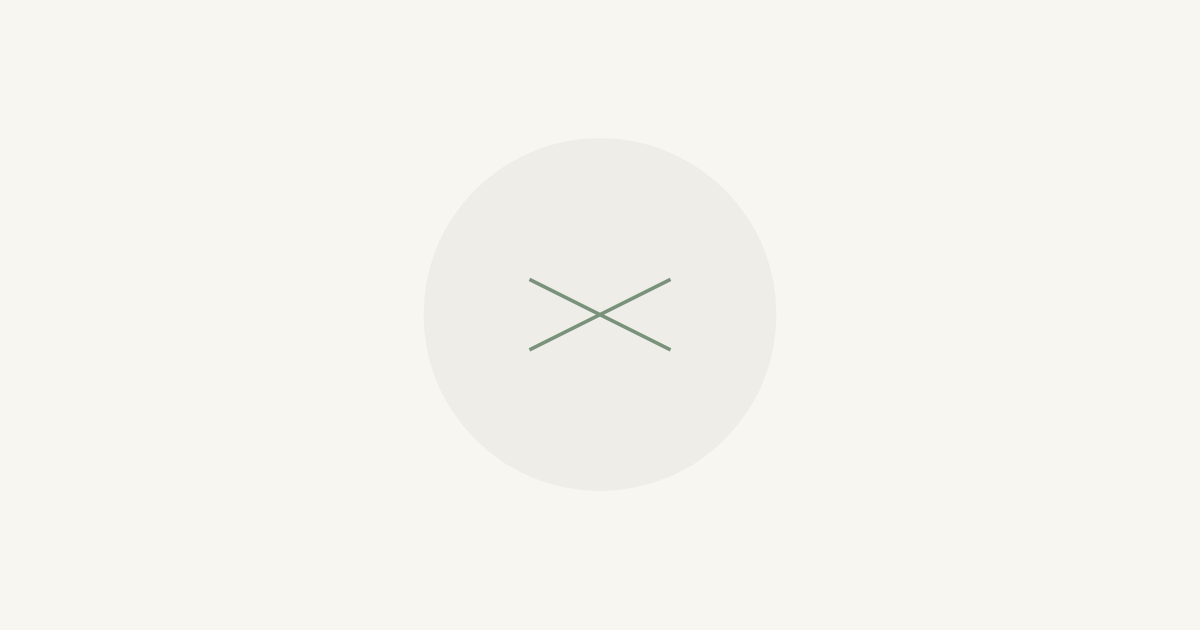
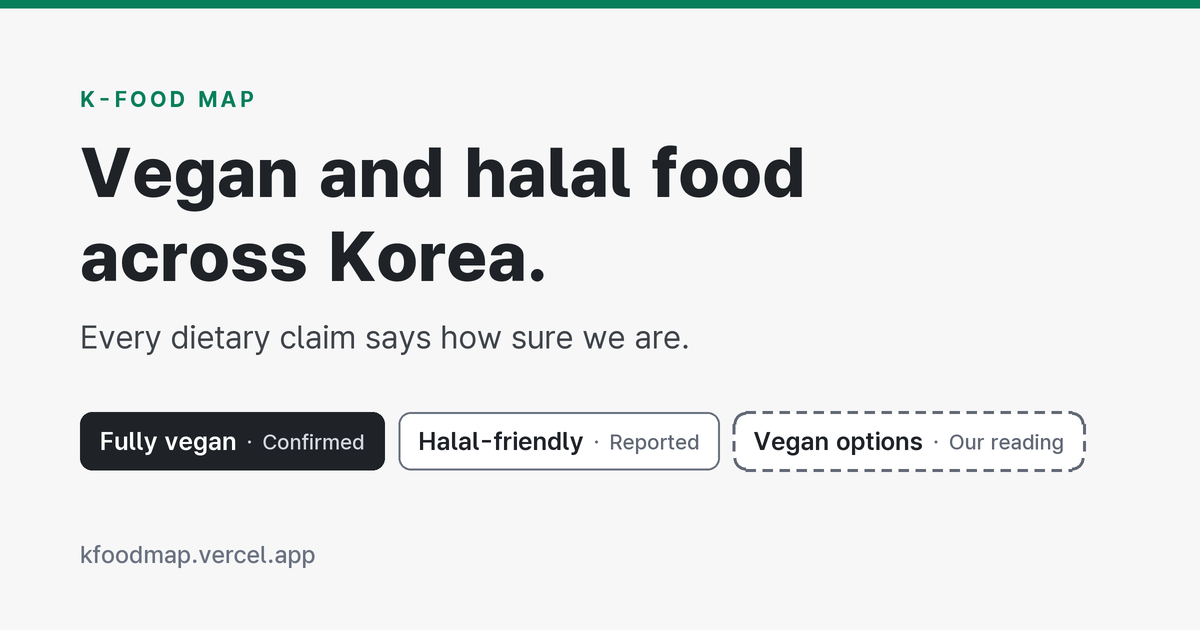
Link previews: a card that says what the map is; full branch names
- The shared og:image was a circle with crossed chopsticks and no
  words, so a link sent in a chat said nothing. It is now a card with
  the name, 'Vegan and halal food across Korea.', and the three claim
  marks, in Pretendard GOV. scripts/og-card.py redraws it.
- Prerendered place pages cut names at the first bracket ('Nimat (니맛),
  Culinary Square T2' became 'Nimat'); they use displayName now, like
  the app.

diff --git a/scripts/og-card.py b/scripts/og-card.py
@@ -1,0 +1,66 @@
+# The shared link-preview card (public/og/fallback.png, 1200x630): used for the
+# home page and for any place without its own illustration card. Drawn with
+# Pillow in Pretendard GOV (from the pretendard-gov npm package) so it
+# matches the app and shows the claim mark (docs/UI-DIRECTION.md).
+# Run from the project root:  python scripts/og-card.py public/og/fallback.png
+
+import sys
+from PIL import Image, ImageDraw, ImageFont
+F='node_modules/pretendard-gov/dist/public/static/alternative/PretendardGOV-'
+def font(w,s): return ImageFont.truetype(F+w+'.ttf', s)
+W,H=1200,630
+S=2  # supersample
+img=Image.new('RGB',(W*S,H*S),'#F7F7F8'); d=ImageDraw.Draw(img)
+INK='#1F2328'; BODY='#3F444A'; MUTED='#6B7280'; MS='#616875'; GREEN='#087F5B'
+x=80*S
+# eyebrow with tracking
+ey=font('Bold',22*S); cx=x
+for ch in 'K-FOOD MAP':
+    d.text((cx,86*S),ch,font=ey,fill=GREEN); cx+=d.textlength(ch,font=ey)+3.2*S
+t=font('ExtraBold',70*S)
+d.text((x,130*S),'Vegan and halal food',font=t,fill=INK)
+d.text((x,214*S),'across Korea.',font=t,fill=INK)
+d.text((x,318*S),'Every dietary claim says how sure we are.',font=font('Regular',32*S),fill=BODY)
+# claim chips
+lab=font('SemiBold',25*S); lvl=font('Medium',21*S)
+chips=[('Fully vegan','Confirmed','solid'),('Halal-friendly','Reported','outline'),('Vegan options','Our reading','dashed')]
+cy=412*S; h=58*S; pad=20*S; gap=14*S
+def dashed_rrect(box,r,col,w,dash=10*S,space=7*S):
+    x0,y0,x1,y1=box
+    # straight edges
+    def seg(a,b,horiz,fixed):
+        p=a
+        while p<b:
+            q=min(p+dash,b)
+            if horiz: d.line([(p,fixed),(q,fixed)],fill=col,width=w)
+            else: d.line([(fixed,p),(fixed,q)],fill=col,width=w)
+            p=q+space
+    seg(x0+r,x1-r,True,y0); seg(x0+r,x1-r,True,y1); seg(y0+r,y1-r,False,x0); seg(y0+r,y1-r,False,x1)
+    for (cx0,cy0,a0) in [(x0,y0,180),(x1-2*r,y0,270),(x1-2*r,y1-2*r,0),(x0,y1-2*r,90)]:
+        d.arc([cx0,cy0,cx0+2*r,cy0+2*r],a0,a0+90,fill=col,width=w)
+xx=x
+for name,level,kind in chips:
+    wn=d.textlength(name,font=lab); wd=d.textlength('·',font=lvl); wl=d.textlength(level,font=lvl)
+    wtot=pad+wn+10*S+wd+10*S+wl+pad
+    box=[xx,cy,xx+wtot,cy+h]
+    if kind=='solid':
+        d.rounded_rectangle(box,radius=12*S,fill=INK)
+        c1,c2='#FFFFFF','#D5D9DF'
+    elif kind=='outline':
+        d.rounded_rectangle(box,radius=12*S,fill='#FFFFFF',outline=MUTED,width=2*S)
+        c1,c2=INK,MS
+    else:
+        d.rounded_rectangle(box,radius=12*S,fill='#FFFFFF')
+        dashed_rrect(box,12*S,MS,3*S)
+        c1,c2=INK,MS
+    ty=cy+h/2
+    d.text((xx+pad,ty),name,font=lab,fill=c1,anchor='lm')
+    d.text((xx+pad+wn+10*S,ty),'·',font=lvl,fill=c2,anchor='lm')
+    d.text((xx+pad+wn+10*S+wd+10*S,ty+1*S),level,font=lvl,fill=c2,anchor='lm')
+    xx+=wtot+gap
+print('chips end x', xx/S)
+d.text((x,540*S),'kfoodmap.vercel.app',font=font('Medium',24*S),fill=MUTED)
+# thin top rule in brand green
+d.rectangle([0,0,W*S,8*S],fill=GREEN)
+img=img.resize((W,H),Image.LANCZOS)
+img.save(sys.argv[1],optimize=True)
